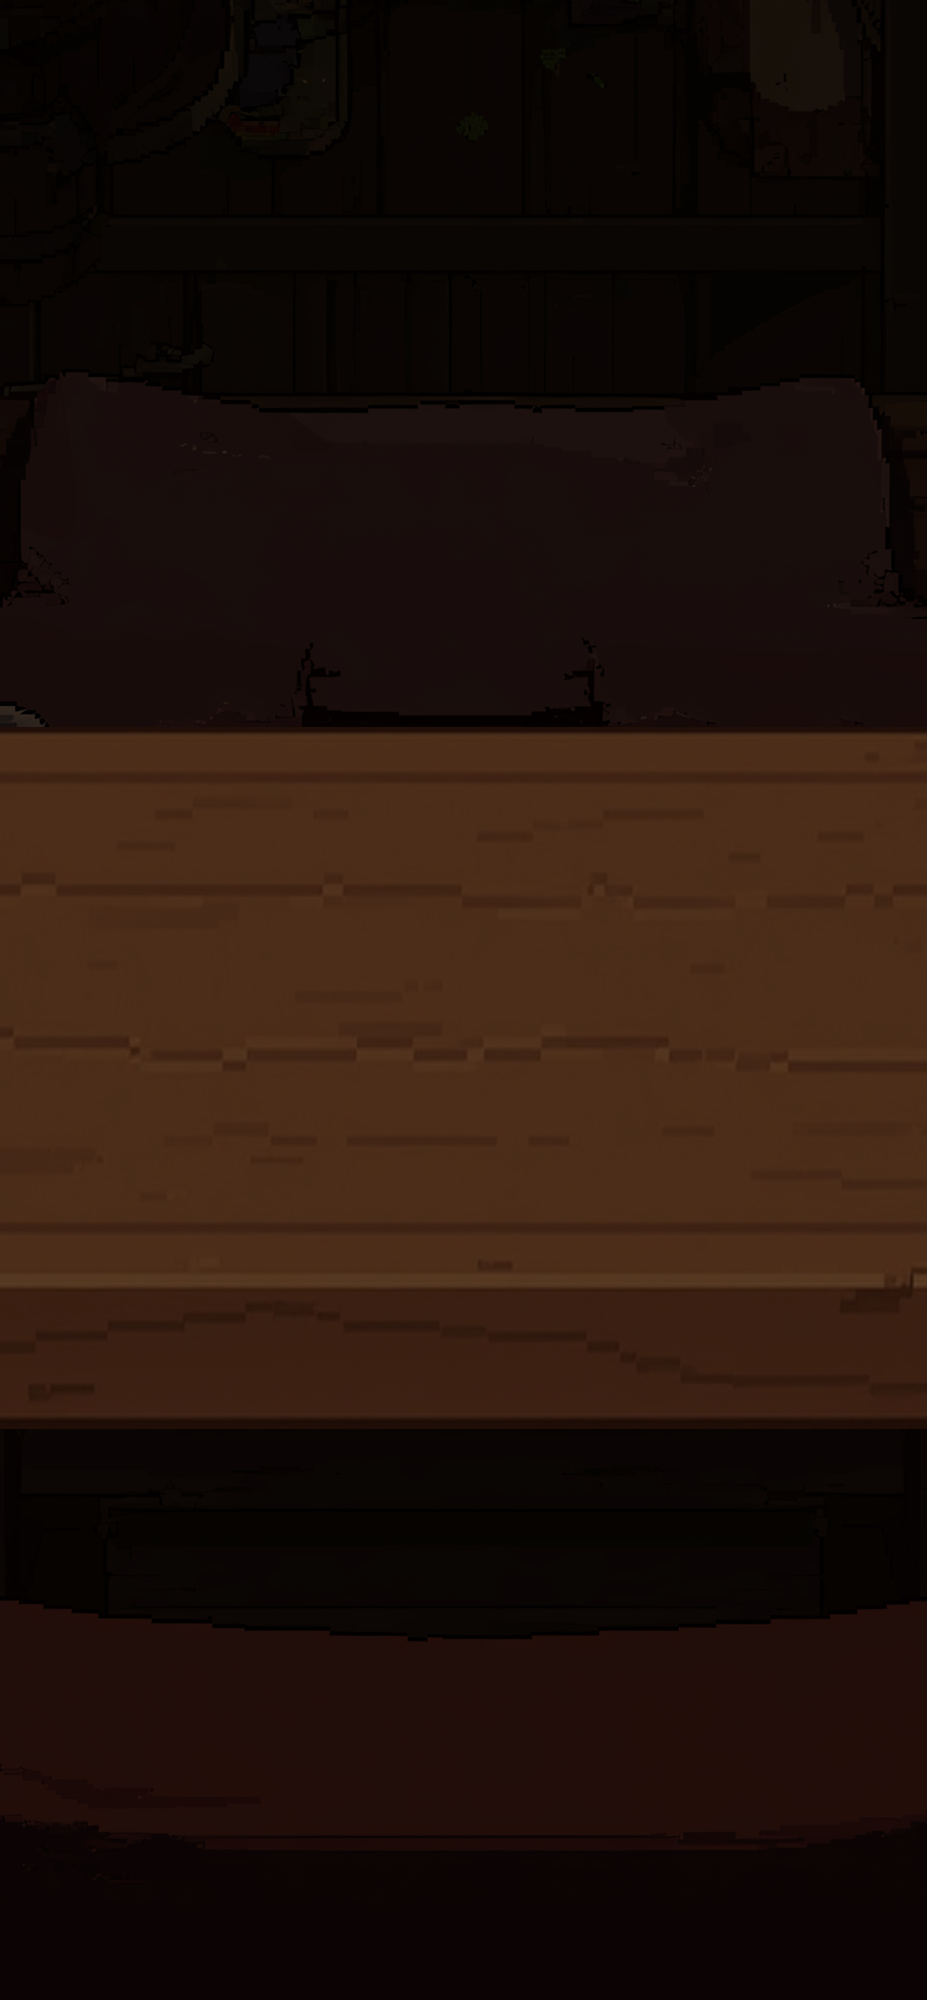
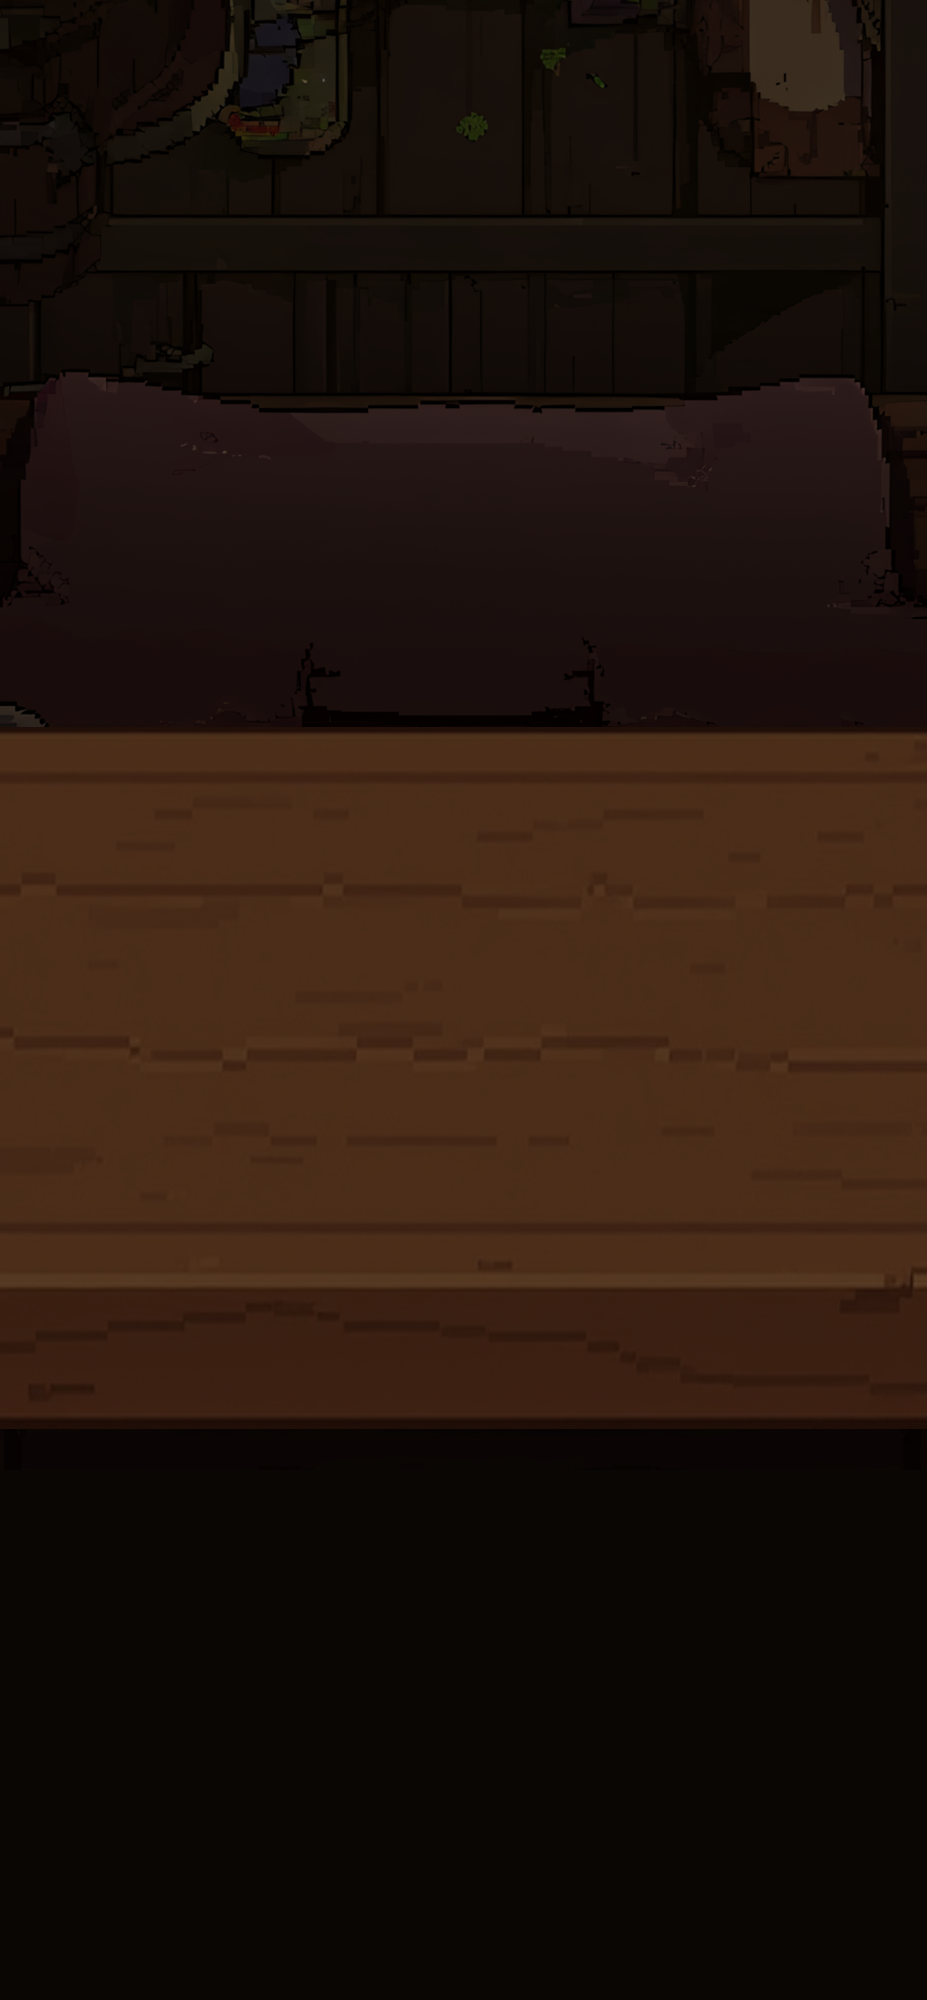
Updated loadout.png art + bump cache so devices refetch
The background image file was replaced with a revised version of the
tavern-interior art. Swapping the file alone isn't enough to invalidate
PWA caches on phones, so bump CACHE_NAME → gambit-v41 to force a
refetch on next load.

Verified in preview at 320×568: Grog + wood bench framed at top, the
lower wood-table portion of the art sits naturally under the YOUR
LOADOUT card/dice slots.

diff --git a/sw.js b/sw.js
@@ -1,4 +1,4 @@
-const CACHE_NAME = 'gambit-v40';
+const CACHE_NAME = 'gambit-v41';
 const ASSETS = [
   './',
   './index.html',
